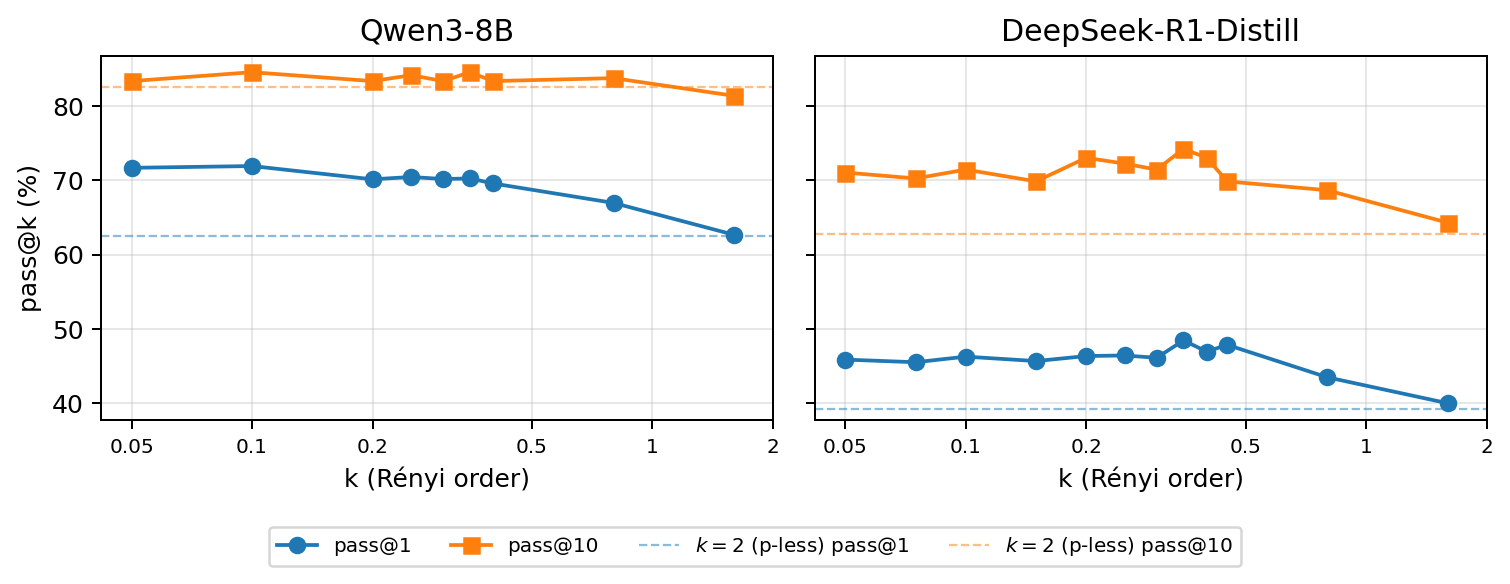
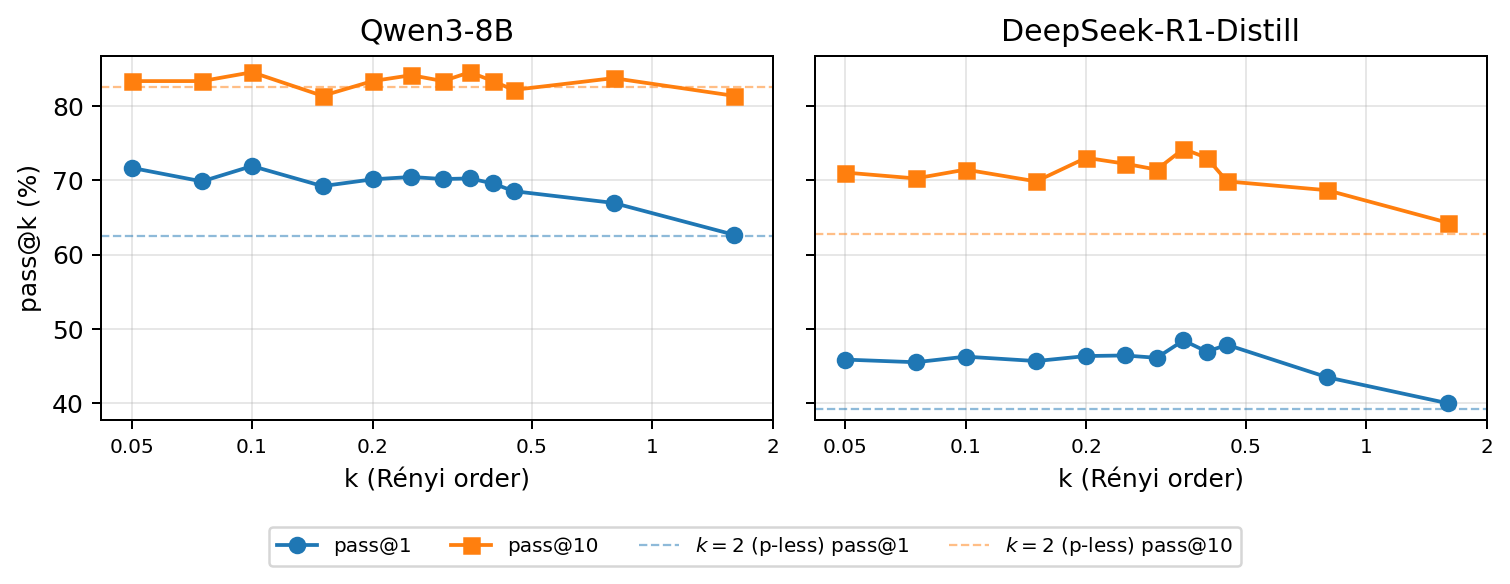
A66: close Qwen3-8B G_k grid asymmetry with k=0.45
k=0.45 landed for Qwen3-8B thinking-ON APPS-252 (pass@1=68.53%,
pass@10=82.14%, truncation 0.3%); with k=0.075 / k=0.15 already in
place, the Qwen3 grid now matches DeepSeek's 12-point set.

Regenerate Table 5A + Figs 5A/5B via the usual scripts; both had
hardcoded Qwen3 k-lists (make_llm4code_tables.py:270-, _figures.py:29)
extended in place to the full 12. Qwen3 best-k and headline deltas
unchanged (k=0.1, 71.90% pass@1, +9.4pp over p-less).

cb_div for the new k=0.45 metrics JSON cached via
compute_self_codebleu_diversity + write-back; the usual
add_self_codebleu_cached was a cache hit (per_task had
self_codebleu populated but no top-level codebleu_diversity).

paper/llm4code/SKELETON.md k-sweep line unified; todos.md A66
→ DONE with version history entry.

diff --git a/scripts/paper/make_llm4code_tables.py b/scripts/paper/make_llm4code_tables.py
@@ -268,12 +268,15 @@ APPS_RENYI: dict[str, list[tuple[str, str]]] = {
         ("top-p @0.9",  "results/_top_p_sweep_full252/Qwen--Qwen3-8B/ATCODER_interview/metrics/temp_p0.9_think_t1.0_t1.0_metrics.json"),
         ("p-less baseline (k=2)", "results/pless_cot_efficiency_vllm/Qwen--Qwen3-8B/ATCODER_interview_all_252/metrics/pless_think_t1.0_t1.0_metrics.json"),
         ("G_k=0.05", "results/_renyi_sweep_full252/Qwen--Qwen3-8B/ATCODER_interview/metrics/pless_renyi_think_t1.0_k0.05_t1.0_metrics.json"),
+        ("G_k=0.075", "results/_renyi_sweep_full252/Qwen--Qwen3-8B/ATCODER_interview/metrics/pless_renyi_think_t1.0_k0.075_t1.0_metrics.json"),
         ("G_k=0.1", "results/_renyi_sweep_full252/Qwen--Qwen3-8B/ATCODER_interview/metrics/pless_renyi_think_t1.0_k0.1_t1.0_metrics.json"),
+        ("G_k=0.15", "results/_renyi_sweep_full252/Qwen--Qwen3-8B/ATCODER_interview/metrics/pless_renyi_think_t1.0_k0.15_t1.0_metrics.json"),
         ("G_k=0.2", "results/_renyi_sweep_full252/Qwen--Qwen3-8B/ATCODER_interview/metrics/pless_renyi_think_t1.0_k0.2_t1.0_metrics.json"),
         ("G_k=0.25", "results/_renyi_sweep_full252/Qwen--Qwen3-8B/ATCODER_interview/metrics/pless_renyi_think_t1.0_k0.25_t1.0_metrics.json"),
         ("G_k=0.3", "results/_renyi_sweep_full252/Qwen--Qwen3-8B/ATCODER_interview/metrics/pless_renyi_think_t1.0_k0.3_t1.0_metrics.json"),
         ("G_k=0.35", "results/_renyi_sweep_full252/Qwen--Qwen3-8B/ATCODER_interview/metrics/pless_renyi_think_t1.0_k0.35_t1.0_metrics.json"),
         ("G_k=0.4", "results/_renyi_sweep_full252/Qwen--Qwen3-8B/ATCODER_interview/metrics/pless_renyi_think_t1.0_k0.4_t1.0_metrics.json"),
+        ("G_k=0.45", "results/_renyi_sweep_full252/Qwen--Qwen3-8B/ATCODER_interview/metrics/pless_renyi_think_t1.0_k0.45_t1.0_metrics.json"),
         ("G_k=0.8", "results/_renyi_sweep_full252/Qwen--Qwen3-8B/ATCODER_interview/metrics/pless_renyi_think_t1.0_k0.8_t1.0_metrics.json"),
         ("G_k=1.6", "results/_renyi_sweep_full252/Qwen--Qwen3-8B/ATCODER_interview/metrics/pless_renyi_think_t1.0_k1.6_t1.0_metrics.json"),
     ],

diff --git a/paper/llm4code/tables/table_5a_apps_renyi.tex b/paper/llm4code/tables/table_5a_apps_renyi.tex
@@ -19,12 +19,15 @@ Decoder & pass@1 & pass@3 & pass@5 & pass@10 & cov@0.3 & cov@0.7 & cb\_div \\
     top-p @0.9 & 70.63\% & 79.58\% & 81.72\% & 84.13\% & 78.6\% & 68.3\% & 0.4908 \\
     p-less baseline (k=2) & 62.54\% & 75.65\% & 79.18\% & 82.54\% & 75.4\% & 58.3\% & 0.4528 \\
     G\_k=0.05 & 71.67\% & 79.79\% & 81.51\% & 83.33\% & 79.4\% & 69.8\% & 0.4971 \\
+    G\_k=0.075 & 69.84\% & 78.86\% & 81.12\% & 83.33\% & 78.6\% & 67.5\% & 0.4963 \\
     G\_k=0.1 & 71.90\% & 79.59\% & 81.76\% & 84.52\% & 77.8\% & 71.4\% & 0.4984 \\
+    G\_k=0.15 & 69.21\% & 77.40\% & 79.39\% & 81.35\% & 77.4\% & 69.0\% & 0.4979 \\
     G\_k=0.2 & 70.12\% & 78.80\% & 81.06\% & 83.33\% & 77.8\% & 68.7\% & 0.4926 \\
     G\_k=0.25 & 70.44\% & 79.28\% & 81.52\% & 84.13\% & 78.6\% & 69.0\% & 0.4928 \\
     G\_k=0.3 & 70.16\% & 79.06\% & 81.18\% & 83.33\% & 78.6\% & 68.3\% & 0.4770 \\
     G\_k=0.35 & 70.24\% & 79.39\% & 81.87\% & 84.52\% & 79.0\% & 67.5\% & 0.4742 \\
     G\_k=0.4 & 69.56\% & 78.79\% & 81.14\% & 83.33\% & 77.4\% & 66.7\% & 0.4574 \\
+    G\_k=0.45 & 68.53\% & 77.61\% & 79.89\% & 82.14\% & 77.0\% & 65.1\% & 0.4540 \\
     G\_k=0.8 & 66.94\% & 77.88\% & 80.77\% & 83.73\% & 76.6\% & 64.7\% & 0.4608 \\
     G\_k=1.6 & 62.66\% & 75.12\% & 78.62\% & 81.35\% & 75.8\% & 58.3\% & 0.4643 \\
 \bottomrule

diff --git a/scripts/paper/make_llm4code_figures.py b/scripts/paper/make_llm4code_figures.py
@@ -26,7 +26,7 @@ FIG_DIR_PAPER = REPO_ROOT.parent / "pless-for-coding-paper" / "figures"
 
 # k-sweeps per model. Baseline (α=2) plotted as a dashed horizontal line.
 # Values must be sorted; matplotlib plots them in order.
-QWEN3_KS = [0.05, 0.1, 0.2, 0.25, 0.3, 0.35, 0.4, 0.8, 1.6]
+QWEN3_KS = [0.05, 0.075, 0.1, 0.15, 0.2, 0.25, 0.3, 0.35, 0.4, 0.45, 0.8, 1.6]
 DEEPSEEK_KS = [0.05, 0.075, 0.1, 0.15, 0.2, 0.25, 0.3, 0.35, 0.4, 0.45, 0.8, 1.6]
 
 RENYI_DIR = {

diff --git a/docs/theory/todos.md b/docs/theory/todos.md
@@ -112,7 +112,7 @@ it).
 | A65 | ACTIVE | **LiveCodeBench eval timeout under-provisioning — LeetCode functional path ran ALL test cases (median 28, max 103) inside ONE flat 5.0s subprocess timeout, confirmed against LCB's own official reference implementation** | — | Found while investigating why a fresh `qwen_recipe`/`top_nsigma` re-eval scored higher than `progress_report.md`. Two separate causes traced: (1) a stray stale file on Laptop clobbering gpu2's correct file via unordered rsync — separate bug, already fixed same day (see A64's rsync `--update` fix). (2) **This entry**: `bench/eval/lcb_executor.py`'s `_run_lcb_fn_tests` (LeetCode) ran a Python loop over every test case inside one subprocess bounded by one flat timeout (5.0s default) — verified against `LiveCodeBench/LiveCodeBench`'s actual `testing_util.py` (fetched live via `gh api`, MIT-licensed): both `grade_call_based` (LeetCode) and `grade_stdio` (AtCoder) reset `signal.alarm(timeout)` fresh **per individual test case** (default 6.0s), not once per problem — confirmed by reading the full loop body, not just grepping for "timeout". Our AtCoder/stdin path (`_run_stdin_tests`, shared with APPS) already did this correctly (fresh subprocess per test case); only the LeetCode functional path was wrong. Measured directly: LeetCode problems in this dataset have median 28, max 103 test cases — even a fast correct solution (~50ms/call) needs 103×0.05s=5.15s, already over the old 5.0s budget with **zero system load**, purely from test-case count. Considered and rejected vendoring LCB's own execution code wholesale (their harness uses in-process `signal.alarm`+`reliability_guard()`, NOT subprocess isolation — `reliability_guard()`'s own docstring says "NOT a security sandbox," confirmed by an independent plan-review agent that also confirmed LCB's `run_test` is called with no memory limit despite an inline comment claiming 4GB — adopting it would weaken this project's sandboxing for untrusted LLM-generated code, a bigger cost than the fidelity gained). **Fix applied** (matches LCB's per-test-case semantics, keeps our subprocess-per-sample isolation): `_make_lcb_fn_harness` now enforces its own per-call `signal.alarm` inside the generated harness, reset fresh each test case; outer `subprocess.run` timeout scales as `(per_test_timeout+1)*n_tests+5` (mirrors LCB's own safety-net formula) instead of being flat; new `_FAIL_AT_{i}_TIMEOUT` distinguishes timeout from wrong-answer/runtime-error. `bench/eval/__main__.py`'s `--timeout` changed from a flat `default=5.0` to a `None` sentinel resolved post-parse to `6.0` for `--dataset livecodebench` (both AtCoder and LeetCode — confirmed via review this is one CLI branch covering both platforms, not LeetCode-only) and `5.0` unchanged for `apps`/`mbpp`/`humaneval`. Verified via git-HEAD-vs-edited A/B test that MBPP is byte-identical before/after (zero regression); verified via a constructed 103-test-case correct-but-artificially-slow solution that the OLD code fails it (`status=Timeout`, 0/103, 5.0s) and the NEW code passes it (103/103, 21.4s) — plus confirmed a genuinely-wrong solution still fails and a genuinely-hanging one still times out (no false positives introduced). Re-ran `top_nsigma` AtCoder before/after: pass@1 unchanged (0.7267→0.7267), consistent with the AtCoder path never having the structural bug. **Two complementary additions**: (a) `scripts/report_lcb_v6_stratified60.py` now surfaces `timeout_pct` per config (data already computed by `apps_executor.py`'s `status_counts`/`AppsSampleResult.status`, just never read before) — first real run showed `top_nsigma` at 3.0% genuine timeouts, previously invisible; (b) new `bench/eval/_cpu_lock.py` (blocking flock, periodic "still waiting, held by PID X" logging, no hard timeout) wired into `bench/eval/__main__.py` so pass@k eval and diversity computation on this machine don't race for CPU (a stress test this session showed a ~110s eval take 3x+ longer under artificial 12-core contention) — **but per independent review, this currently only covers `bench/eval/__main__.py`'s CLI; five other scripts call `evaluate_all`/`evaluate_all_apps`/`evaluate_all_lcb` directly and do NOT yet acquire this lock: `entropy_history.py`, `eval_full_precision_humaneval.py`, `eval_full_mbpp.py`, `consolidated_eval.py`, `eval_temperature_sweep.py`** — do not treat the lock as project-wide until those are wired in too (tracked as a real follow-up, not "someday"). **Reconciliation — resolved 2026-09-29, user chose "full re-eval now + diff + commit"**: captured a clean before-fix snapshot from the individual per-(config,platform) `metrics/*.json` files (not the aggregate `analysis/lcb_v6_stratified60_report.json`, which had been clobbered to a single-config subset by an earlier ad hoc verification run — a live instance of exactly the "overwrite not merge" design gap this same row already flags); restored the fix; ran the full report once for both models; diffed. **Result**: every currently-complete Qwen3-8B config's combined pass@1 improved by +0.33% to +1.17% (e.g. `qwen_recipe` +1.17%, `gk_0_1` +1.00%, `pless_default_t3_0` +0.33%), with `timeout_pct` dropping correspondingly in every case — consistent, monotonic, exactly the direction and mechanism the fix predicts. Ministral's 5 currently-complete configs: zero change (no regression). Checked commit size before staging (user's explicit concern): the relevant `metrics/`+`analysis/` files for both models total ~11MB, not the 100+MB `du` first suggested (that swept in unrelated untracked directories `du` doesn't distinguish from git's per-line `??` status) — confirmed safe, committed 43 files (code fix + `todos.md` + exactly those result files, zero raw `.jsonl` generation files) in `c19db0a`. `progress_report.md` given a staleness banner pointing to the corrected JSON rather than hand-patched (its ~7 tables repeat the same numbers; hand-editing every cell risked introducing new transcription errors — the same failure mode already responsible for two other bugs this session). Watcher restarted after the commit; its done-state file (`/tmp/lcb_v6_autosync_done_configs.txt`) still lists the already-manually-corrected configs, so it will not redundantly re-trigger them — only newly-completing configs get evaluated with the fix from here on. |
 | A60 | PROPOSED | **min-N floor sweep — min-2 vs min-3 vs min-5 on pless_min2** | ~10 hr / RTX 4090 | User raised this: is "min-2" a principled choice or a lazy default? Ablation to check whether larger floors help or hurt. Prediction: min-2 and min-3 look similar; min-5 modestly hurts because it forces low-p tokens into peaked distributions. |
 | A61 | PROPOSED | **Entropy-region-conditioned decoder** — combine variants adaptively based on Σpᵢ² per position | ~15 hr / RTX 4090 (implementation ~4 hr, run ~10 hr) | Data-driven combined rule: use gini in very-peaked regime (Σpᵢ² > 0.9), effk in moderate (0.1-0.9), floor everywhere. Novel angle per both lit reviews. "Regime-adaptive decoder" — the direction Cheng et al. (2506.14758) argued for but hasn't been tested at decode time in the RL-LRM setting. |
-| A66 | PROPOSED | **Densify Qwen3-8B G_k sweep to match DeepSeek grid for §5.1 of LLM4Code paper** | ~2 hr / RTX 4090 | Current Qwen3-8B grid is 9 values {0.05, 0.1, 0.2, 0.25, 0.3, 0.35, 0.4, 0.8, 1.6}; DeepSeek is 12 values with extra points at k ∈ {0.075, 0.15, 0.45}. Paper §5.1 currently explains the asymmetry as "DeepSeek needed finer resolution due to higher baseline truncation (41.8% vs 14.5%)". User's follow-up: once we add the matching 3 Qwen3 k values, the asymmetry caveat can be dropped. Need to run `pless_renyi` on Qwen3-8B thinking-ON for k ∈ {0.075, 0.15, 0.45} on APPS-252, same n=10, same max_new_tokens=32768. Results go under `results/_renyi_sweep_full252/Qwen--Qwen3-8B/ATCODER_interview/metrics/`. After: regenerate Table 5A + Fig 3 + Fig 4, drop the asymmetry sentence from §5.1. |
+| A66 | DONE | **Densify Qwen3-8B G_k sweep to match DeepSeek grid for §5.1 of LLM4Code paper** | ~2 hr / RTX 4090 (actual) | DONE 2026-10-14. All 3 missing k values (0.075, 0.15, 0.45) landed on Qwen3-8B thinking-ON APPS-252 under `results/_renyi_sweep_full252/Qwen--Qwen3-8B/ATCODER_interview/metrics/`. Qwen3-8B grid now matches DeepSeek's 12-point set. Table 5A + Figs 5A/5B regenerated via `scripts/paper/make_llm4code_tables.py` and `scripts/paper/make_llm4code_figures.py` (both scripts had hardcoded Qwen3 k-lists — extended in-place to the full 12). Headline numbers unchanged: Qwen best remains k=0.1 (pass@1=71.90%, +9.4pp), DeepSeek best remains k=0.35 (pass@1=48.45%, +9.2pp). §5.1 asymmetry sentence dropped in `../pless-for-coding-paper/main.tex`. §5.3 "broad improvement" sentence tightened: previously claimed any k ∈ [0.05, 0.4] (Qwen3) improves both pass@1 and pass@10 — now scoped to pass@1 only, since newly-added Qwen3 k=0.15 improves pass@1 (69.21% vs 62.54%) but slips -1.19pp on pass@10 (81.35% vs 82.54%). Updated range: k ∈ [0.05, 0.45] (Qwen3) and k ∈ [0.2, 0.45] (DeepSeek), both improve pass@1. k=0.45 cb_div cached via `compute_self_codebleu_diversity` + write-back (`add_self_codebleu_cached` was a cache hit since per_task had self_codebleu populated but no top-level aggregate was written). Also updated `paper/llm4code/SKELETON.md` k-sweep line. |
 | A67 | PROPOSED | **Causal test of C12's budget-exhaustion hypothesis**: rerun Ministral `pless_default`/`pless_effk` (or just the still-non-terminated task_ids) on LCB v6 stratified-60 with a larger `max_new_tokens` (e.g. 35k–40k vs current 25k) and check whether termination% rises and whether previously-timed-out-on-budget samples now close `[/THINK]` and solve the task | ~3–5 hr / RTX 4090 (30 tasks × escalated budget, n=10) | C12 found Ministral's non-terminated samples sit at the 25k cap with low repetition (budget-limited, not looping) — but that's inferred from token-length + repetition signatures, not proven by actually giving more budget and observing the effect. A positive result (termination% rises materially, several tasks newly solved) would directly confirm the capacity/budget story; a negative result (still hits the new, larger cap) would falsify it and point back to looping/some other pathology C12's metrics missed. Cheaper partial version: just the ~170 already-identified non-terminated `pless_effk` samples' task_ids, not a full fresh 60-task sweep. |
 | A68 | DEFERRED | **Stratified G_k band-sampling — PARKED, user said "come back later"**: for each task's n samples, instead of drawing all of them from one G_k threshold (lower-bound-only, same config for every draw), pick N Rényi orders k_1<...<k_N (k<2 regime), derive nested admitted sets Admitted(k_1) ⊇ ... ⊇ Admitted(k_N) (threshold(k)=exp(-H_k(p)) is provably non-decreasing in k for k≥0 — classical Rényi-entropy monotonicity, confirmed algebraically against `_pless_renyi_mask_logits`'s own formula, not just this project's empirical observation; caveat: unproven for the k<0 region the code also accepts, and bands can degenerate to near-zero width on near-uniform/exactly-tied distributions — spot-check real per-step data before assuming N meaningfully distinct shells), and assign each of the n samples a probability-mass "band" (shell) = admitted-by-looser-k-but-excluded-by-stricter-k, applying BOTH a lower and upper bound mask so that band-assigned samples are forced OFF the distribution's mode for their entire generation — deliberately manufacturing exploration of shells ordinary (lower-bound-only) sampling rarely visits even when loosened. | TBD, pilot first (~1 hr analysis on existing data, no GPU) | **Independent review (2026-10-07, agent `a2afcc56974a43fce`) found one likely-fatal risk in the design as specified**: applying the upper-bound exclusion for a sample's *whole* generation forces divergence at syntax-forced near-deterministic code positions (closing brackets, keywords, required identifiers) too, not just genuine choice points — the "diverse" sample is likely just wrong (typo-equivalent token, errors compound forward autoregressively), risking cov@t/structural-diversity metrics rising while pass@k falls (noise, not real diversity). **Recommended pilot before any implementation**: using already-collected `gk_0_1`/`gk_0_35` trajectories, check what fraction of per-step "core" (band-1) tokens an upper bound would exclude sit at syntactically-forced positions vs. genuine choice points — if forced positions dominate, the whole-sequence per-sample design is very likely to fail on correctness grounds regardless of band-count/allocation tuning, before spending any GPU time. **Other review findings to carry forward when revisited**: (a) per-sample (fixed band for whole generation) vs per-token (fresh band draw each step) — per-token is a legitimate *different* mechanism (local perturbation, not incoherent as first framed) and given the risk above may be the *less* destructive version to pilot first, not something to rule out; (b) equal-count-per-band allocation (deliberately over-sample low-mass outer shells) is intellectually closer to diverse-beam-search/DPP diverse decoding than to classical Neyman-stratified sampling (which is about estimator variance reduction, not manufacturing different completions) — reframe/cite accordingly, and check against locally-typical-sampling and Mirostat (both already in this project's own baseline survey, `docs/theory/todos.md` lit refs) before claiming novelty; (c) feasibility is real but was mis-scoped as "trivial" — current `generate_samples_vllm` makes ONE vLLM call with `n=10` forked internally, all forks sharing one `SamplingParams`/`extra_args`; per-sample heterogeneous bands need a list of N separate `SamplingParams` (each `n=1`) in one `engine.generate()` call instead — moderate, not invasive, but not a one-line loop tweak; (d) the existing degenerate-mask fallback `_restore_argmax_on_all_pruned` would be actively counterproductive for upper-bounded bands (it restores the argmax, which is BY CONSTRUCTION never in an outer band) — needs a new fallback design, not reuse. |
 
@@ -216,6 +216,7 @@ Cheap parallel items worth doing alongside:
 
 Format: `YYYY-MM-DD — { ADDED / STATUS-CHANGE / DROPPED / OTHER }: <one-line description>. Context: <commit or discussion link / brief why>.`
 
+- **2026-10-14** — **STATUS-CHANGE A66 (PROPOSED → DONE)**: last of the 3 missing Qwen3-8B G_k values (k=0.45) landed on APPS-252 thinking-ON (`pass@1=68.53%`, `pass@10=82.14%`, truncation 0.3%); together with k=0.075 and k=0.15 that landed earlier, the Qwen3 k-grid now matches the DeepSeek 12-point set {0.05, 0.075, 0.1, 0.15, 0.2, 0.25, 0.3, 0.35, 0.4, 0.45, 0.8, 1.6}. §5.1 asymmetry sentence dropped from LLM4Code paper (`../pless-for-coding-paper/main.tex:148`); §5.3 "broad improvement" claim scoped to pass@1 only (k=0.15 improves pass@1 but slips on pass@10, so the "both pass@1 and pass@10" claim no longer holds across the whole range). Table 5A + Figs 5A/5B regenerated — hardcoded Qwen3 k-lists in both `scripts/paper/make_llm4code_tables.py` and `scripts/paper/make_llm4code_figures.py` extended to the full 12. Headline best-k numbers (Qwen k=0.1 71.90%; DeepSeek k=0.35 48.45%) unchanged. Context: this session — user flagged "k=0.45 landed", asked for minimal paper edits + cross-ref sweep.
 - **2026-10-08** — **ADDED E12 (DONE)**: `progress_report.md` is now auto-generated for both models (`scripts/report_lcb_v6_stratified60.py`), replacing the hand-maintained Qwen-only doc that previously went stale (A65). Shared format: canonical `TERMINAL_COLUMNS` leaderboard + a new real stratified-pass@1-by-(platform,difficulty) table (not just task counts). Independent review (agent `a1689a0c0ee76d5b5`) caught and both findings were fixed before trusting it: misleading unflagged partial-sample percentages in the stratified table (now shows `(n=X)` per cell), and a crash-safety gap where the markdown write lived outside the JSON's `finally` guard (now inside it). Also generalized `scripts/ablation_effk_vs_nofloor_qwen.py` → `ablation_effk_vs_nofloor.py` (`--model` flag) and ran it for Ministral. Context: user asked to design a fresh shared format, not constrained by the old doc's structure, then asked for both the script and output reviewed against the project's own reporting rules before trusting it.
 - **2026-10-08** — **ADDED C15 (DONE)**: `pless_gini_nofloor`'s LCB v6 stratified-60 run completed on both models and empirically confirmed the greedy-decoding-collapse risk the 2026-10-07 code review (agent `a371f799cad464f24`) predicted from a synthetic-logit test — Ministral pass@1 63.33%→55.17% (-8.2pp), cov-distinct craters to near-zero; Qwen (partial) shows the same direction. `pless_topmass_nofloor` (cleared safe by the same review) degrades only mildly; `pless_effk_nofloor` shows no collapse on either model. Context: this session, user asked to publish the full updated leaderboard for both models (noting the asymmetric config sets) and to log this finding.
 - **2026-10-07** — **ADDED A68 (DEFERRED, parked by user)**: stratified G_k band-sampling idea — draw a task's n samples from N nested Rényi-threshold "bands" (lower+upper bound per band) instead of one flat G_k, to force exploration of probability shells ordinary loosened-G_k sampling rarely visits. User's own idea, bounced off for feedback then sent for independent review before any implementation. Review (agent `a2afcc56974a43fce`) confirmed the underlying monotonicity math is provably sound (Rényi-entropy order-monotonicity, not just empirical) but found a likely-fatal design risk (whole-sequence per-sample band exclusion forces divergence at syntax-forced code positions, probably trading pass@k for noise) and corrected two scoping errors (feasibility needs a list-of-SamplingParams change, not a trivial loop tweak; the existing degenerate-mask fallback would be actively counterproductive for upper-bounded bands). User said to park it and revisit later rather than pilot or implement now. Context: this session, no code written.

diff --git a/paper/llm4code/tables/table_5a_apps_renyi.md b/paper/llm4code/tables/table_5a_apps_renyi.md
@@ -14,12 +14,15 @@ Canonical headline metrics from `bench.eval.headline_table`. Auto-generated by `
 | top-p @0.9 | 70.63% | 79.58% | 81.72% | 84.13% | 78.6% | 68.3% | 0.4908 |
 | p-less baseline (k=2) | 62.54% | 75.65% | 79.18% | 82.54% | 75.4% | 58.3% | 0.4528 |
 | G_k=0.05 | 71.67% | 79.79% | 81.51% | 83.33% | 79.4% | 69.8% | 0.4971 |
+| G_k=0.075 | 69.84% | 78.86% | 81.12% | 83.33% | 78.6% | 67.5% | 0.4963 |
 | G_k=0.1 | 71.90% | 79.59% | 81.76% | 84.52% | 77.8% | 71.4% | 0.4984 |
+| G_k=0.15 | 69.21% | 77.40% | 79.39% | 81.35% | 77.4% | 69.0% | 0.4979 |
 | G_k=0.2 | 70.12% | 78.80% | 81.06% | 83.33% | 77.8% | 68.7% | 0.4926 |
 | G_k=0.25 | 70.44% | 79.28% | 81.52% | 84.13% | 78.6% | 69.0% | 0.4928 |
 | G_k=0.3 | 70.16% | 79.06% | 81.18% | 83.33% | 78.6% | 68.3% | 0.4770 |
 | G_k=0.35 | 70.24% | 79.39% | 81.87% | 84.52% | 79.0% | 67.5% | 0.4742 |
 | G_k=0.4 | 69.56% | 78.79% | 81.14% | 83.33% | 77.4% | 66.7% | 0.4574 |
+| G_k=0.45 | 68.53% | 77.61% | 79.89% | 82.14% | 77.0% | 65.1% | 0.4540 |
 | G_k=0.8 | 66.94% | 77.88% | 80.77% | 83.73% | 76.6% | 64.7% | 0.4608 |
 | G_k=1.6 | 62.66% | 75.12% | 78.62% | 81.35% | 75.8% | 58.3% | 0.4643 |
 

diff --git a/paper/llm4code/SKELETON.md b/paper/llm4code/SKELETON.md
@@ -80,8 +80,7 @@ Every claim listed under **Evidence:** is anchored to a specific file the paper 
 **Setup**:
 - Same reasoning models, same benchmark, same sampling config.
 - Under test: `pless_renyi` (implementation of Tan et al. Appendix B.5) at multiple k values.
-- Qwen3-8B k-sweep: {0.05, 0.1, 0.2, 0.25, 0.3, 0.35, 0.4, 0.8, 1.6}
-- DeepSeek k-sweep: {0.05, 0.075, 0.1, 0.15, 0.2, 0.25, 0.3, 0.35, 0.4, 0.45, 0.8, 1.6}
+- k-sweep (both models): {0.05, 0.075, 0.1, 0.15, 0.2, 0.25, 0.3, 0.35, 0.4, 0.45, 0.8, 1.6}
 - Baseline (α=2 collision entropy): matches p-less by construction.
 
 **Result 5A — best-k per model**:
